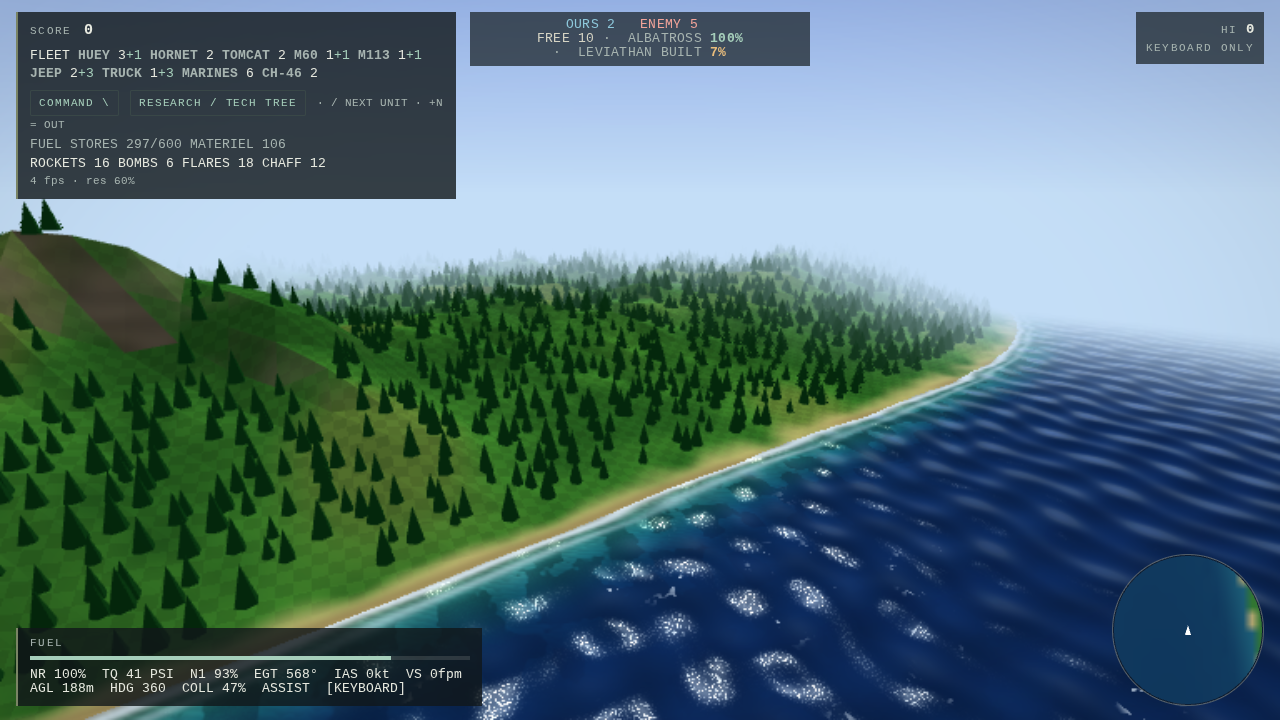
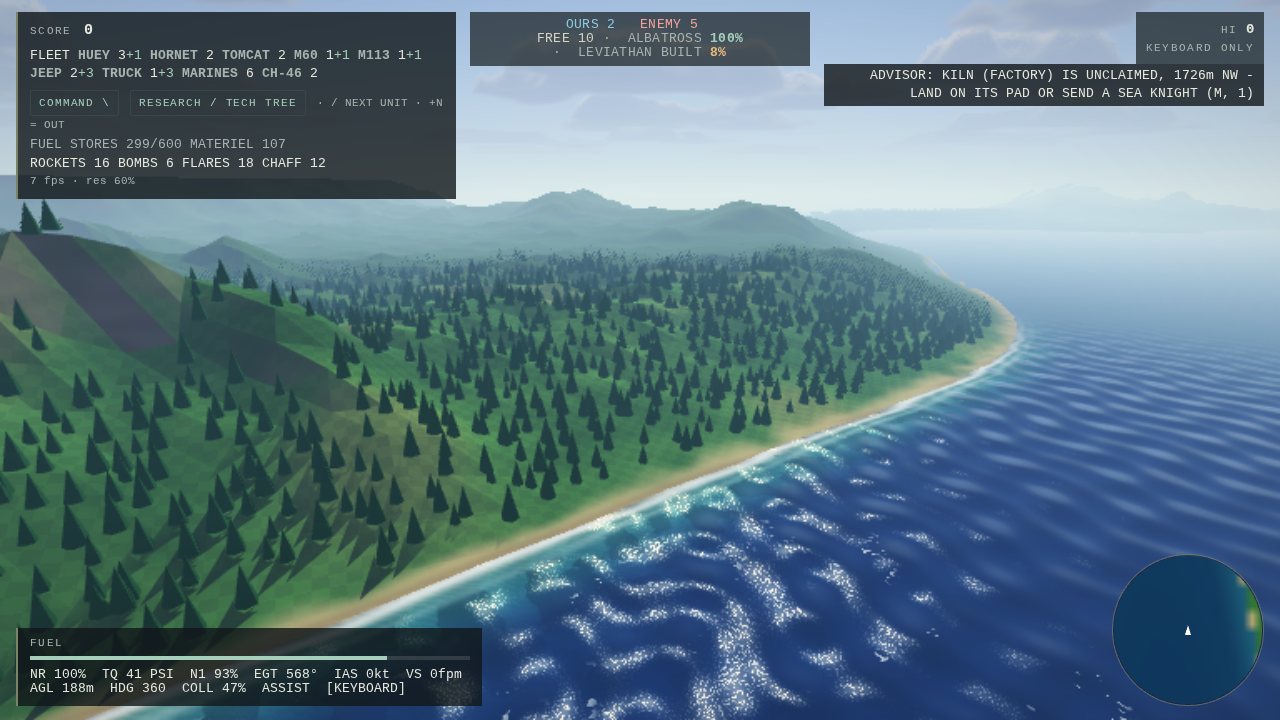
RenderKit nature: refill outside render (tufts lost mid-frame), grass contrast, nearest-first clutter, RK_NATURE needs RK_WORLD in the shader, far land matches the dry patches, post-merge tiers and evidence

diff --git a/game/js/renderkit/nature.js b/game/js/renderkit/nature.js
@@ -176,9 +176,9 @@ function tuftGeo(r) {
   for (let i = 0; i < n; i++) {
     const a = i / n * Math.PI * 2 + r() * 0.6, rr = 0.06 + r() * 0.12, x = Math.cos(a) * rr, z = Math.sin(a) * rr, h = 0.28 + r() * 0.4, w = 0.022 + r() * 0.016;
     const lean = 0.12 + r() * 0.22, tx = x + Math.cos(a) * lean, tz = z + Math.sin(a) * lean, px = -Math.sin(a) * w, pz = Math.cos(a) * w;
-    const up = [Math.cos(a) * 0.35, 1, Math.sin(a) * 0.35], root = mulc(g0, 0.74), tip = mulc(g0, 1.28);
+    const up = [Math.cos(a) * 0.35, 1, Math.sin(a) * 0.35], root = [0.42, 0.46, 0.4], tip = [1.5, 1.42, 0.95];   // dark, self-shaded roots; sun-bleached, yellower tips: grass reads by its contrast, not its hue
     const a0 = [x - px, 0, z - pz], a1 = [x + px, 0, z + pz], m0 = [x + (tx - x) * 0.45 - px * 0.7, h * 0.5, z + (tz - z) * 0.45 - pz * 0.7], m1 = [x + (tx - x) * 0.45 + px * 0.7, h * 0.5, z + (tz - z) * 0.45 + pz * 0.7], t = [tx, h, tz];
-    const mid = mulc(g0, 1.0);
+    const mid = [0.95, 0.98, 0.85];
     B.tri(a0, a1, m1, g0, [up, up, up], 1, 1, [root, root, mid]); B.tri(a0, m1, m0, g0, [up, up, up], 1, 1, [root, mid, mid]);
     B.tri(m0, m1, t, g0, [up, up, up], 1, 1, [mid, mid, tip]);
   }
@@ -291,7 +291,7 @@ function instanced(geo, mat, cap, depth) {
   const mesh = new THREE.Mesh(g, mat); mesh.frustumCulled = false; mesh.matrixAutoUpdate = false; mesh.castShadow = false; mesh.receiveShadow = true;
   if (depth) mesh.customDepthMaterial = depth;
   set.mesh = mesh; set.tris = geo.attributes.position.count / 3;
-  set.ensure = n => { if (n <= set.cap) return; const P = set.P.array, R = set.R.array, C = set.C.array, k = set.n; alloc(Math.ceil(n * 1.5)); set.P.array.set(P.subarray(0, k * 4)); set.R.array.set(R.subarray(0, k * 4)); set.C.array.set(C.subarray(0, k * 3)); g.dispose(); };
+  set.ensure = n => { if (n <= set.cap) return; const P = set.P.array, R = set.R.array, C = set.C.array, k = set.n; alloc(Math.ceil(n * 1.5)); set.P.array.set(P.subarray(0, k * 4)); set.R.array.set(R.subarray(0, k * 4)); set.C.array.set(C.subarray(0, k * 3)); };   // (the old buffers are left to the GC: disposing the geometry mid-frame lost the set)
   set.begin = () => { set.n = 0; };
   set.push = (src, i) => {   // src: { d: Float32Array (x y z s yaw tx tz seed), c: Float32Array (r g b) }
     if (set.n >= set.cap) set.ensure(set.n + 1);
@@ -333,7 +333,7 @@ export function createForest({ scene, fog = null, uTime = null, shared }) {
     const depth = depthMaterial(shared, lvl === 'lite' ? 'mid' : lvl);
     for (const k of K) {
       const g = geos[lvl + k] = treeGeo(k, lvl === 'far' ? 'lite' : lvl).geometry();
-      sets[lvl][k] = instanced(g, mats[lvl], lvl === 'detail' ? 1500 : 3000, depth); root.add(sets[lvl][k].mesh);
+      sets[lvl][k] = instanced(g, mats[lvl], lvl === 'detail' ? 2500 : 4000, depth); root.add(sets[lvl][k].mesh);
       sets[lvl][k].mesh.userData.rkShadow = lvl === 'far' ? 'receive' : 'both';   // RENDERKIT light: trees cast (customDepthMaterial carries the instance transform); the far set only receives
     }
   }
@@ -430,14 +430,14 @@ export function createClutter({ scene, fog = null, uTime = null, shared, sample 
         .replace('vColor.rgb*=aC*uNatGain;', `{ vec2 P=aP.xz; float m1=rkN2(P*.011), m2=rkN2(P*.047+3.1), m3=rkN2(P*.23+7.7), v=m1*.55+m2*.3+m3*.15;
             vec3 g=mix(mix(vec3(.14,.37,.12),vec3(.22,.5,.16),smoothstep(.25,.65,v)),vec3(.36,.5,.2),smoothstep(.5,.85,m1+max(aP.y,0.)*.0008));
             float dry=smoothstep(.55,.8,rkN2(P*.06+11.)+.15*rkN2(P*.3)); g=mix(g,vec3(.52,.5,.27),dry*.55);
-            g=pow(g,vec3(2.2)); vColor.rgb*=g*aC*uNatGain; }`);
+            g=pow(g,vec3(2.2)); vColor.rgb*=g*aC*uNatGain*(.78+.44*fract(aR.w*13.7)); }   // (+ a per-tuft brightness)`);
     };
     grassMat.customProgramCacheKey = () => 'rknature-grass' + (fog ? 'F' : '');
   }
   const mats = { tuft: grassMat, bush: natureMaterial({ kind: 'clutter', fog, uTime, shared, gain: 1.4 }), rock: natureMaterial({ kind: 'clutter', fog, uTime, shared, gain: 1.5 }) };
   mats.stone = mats.rock;
-  const sets = {}; for (const t of types) { sets[t] = instanced(geo[t], mats[t], t === 'tuft' ? 6000 : 1500, depthMaterial(shared, 'clutter')); root.add(sets[t].mesh); sets[t].mesh.userData.rkShadow = t === 'rock' || t === 'bush' ? 'both' : 'receive'; }   // (grass and stones do not cast: 15k tiny casters)
-  const cells = new Map(), key = (i, j) => i * 65536 + j;
+  const sets = {}; for (const t of types) { sets[t] = instanced(geo[t], mats[t], t === 'tuft' ? 20000 : 3000, depthMaterial(shared, 'clutter')); root.add(sets[t].mesh); sets[t].mesh.userData.rkShadow = t === 'rock' || t === 'bush' ? 'both' : 'receive'; }   // (grass and stones do not cast: 15k tiny casters)
+  const cells = new Map(), key = (i, j) => i * 65536 + j, ringCache = [];
   const stats = { cells: 0, tuft: 0, bush: 0, rock: 0, stone: 0, genMs: 0, ms: 0, tris: 0 };
   let lastI = 1e9, lastJ = 1e9, lastY = 1e9, dirty = true;
   const STONE = lin(0x9a968c), STRAW = [1.35, 1.12, 0.5];   // STRAW: a tint on the grass colour (dry summer tufts, marram on the dunes)
@@ -479,7 +479,9 @@ export function createClutter({ scene, fog = null, uTime = null, shared, sample 
     for (const t of types) sets[t].begin();
     const dens = { tuft: T.grass, bush: T.bush, rock: T.rocks, stone: T.rocks };
     let complete = true;
-    if (reach > 0) for (let dj = -n; dj <= n; dj++) for (let di = -n; di <= n; di++) {
+    // nearest cells first: when the generation budget runs out, what exists is what is under your feet
+    const order = ringCache[n] ||= Array.from({ length: (2 * n + 1) ** 2 }, (_, k) => [k % (2 * n + 1) - n, Math.floor(k / (2 * n + 1)) - n]).sort((a, b) => a[0] * a[0] + a[1] * a[1] - b[0] * b[0] - b[1] * b[1]);
+    if (reach > 0) for (const [di, dj] of order) {
       const i = ci + di, j = cj + dj, x = (i + 0.5) * CELL - p.x, z = (j + 0.5) * CELL - p.z;
       if (x * x + z * z > (reach + CELL) * (reach + CELL)) continue;
       let c = cells.get(key(i, j));

diff --git a/game/js/main.js b/game/js/main.js
@@ -551,7 +551,7 @@ const terrainFS = `
     ${RK_TERRAIN_GLSL}
     ${RK_SKY_GLSL}
     #endif
-    #ifdef RK_NATURE
+    #if defined(RK_NATURE) && defined(RK_WORLD)   // (RK_NATURE needs the RK world noise; a test may strip RK_WORLD alone)
     ${NATURE_TERRAIN_GLSL}
     #endif
     #ifdef RK_SKY
@@ -590,7 +590,7 @@ const terrainFS = `
       float rkSnow=wild*smoothstep(440.,520.,vW.y+120.*(rkM1-.5)+30.*(rkM2-.5))*(1.-smoothstep(.3,.75,rkSl+.2*(rkM2-.5)));
       c=mix(c,vec3(.93,.95,.98)*(.95+.05*rkM3),rkSnow);
       c=mix(mix(vec3(.62,.56,.37),vec3(.8,.74,.5),smoothstep(.15,1.2,vW.y))*(.94+.12*rkM3),c,smoothstep(0.,3.+2.5*(rkM2-.5),vW.y));   // wet sand at the waterline
-      #ifdef RK_NATURE
+      #if defined(RK_NATURE) && defined(RK_WORLD)   // (RK_NATURE needs the RK world noise; a test may strip RK_WORLD alone)
       // RENDERKIT nature: what the ground is made of here (weights for rnDetail); the zone's surface map overrides below
       float rnS=1.-smoothstep(0.,3.+2.5*(rkM2-.5),vW.y), rnR=rk*(1.-rkSnow)*(1.-rnS), rnSn=rkSnow*(1.-rnS), rnSoil=0., rnG=max(0.,1.-rnR-rnSn-rnS);
       #endif
@@ -613,14 +613,14 @@ const terrainFS = `
         sd*=.93+.14*rkM3; rkC*=.86+.28*rkM2;
         float rkCl=grass*smoothstep(.3,.5,rkSl+.1*(rkM2-.5));
         c=(rkGr*(grass-rkCl)+rkC*(rkCl+sw.g)+sd*sw.r+vec3(.31,.27,.18)*(.85+.3*rkM2)*sw.b+vec3(.47,.38,.26)*(.88+.24*rkM2)*sw.a)/max(1.,grass+dot(sw,vec4(1.)));
-        #ifdef RK_NATURE
+        #if defined(RK_NATURE) && defined(RK_WORLD)   // (RK_NATURE needs the RK world noise; a test may strip RK_WORLD alone)
         { float rnT=max(1.,grass+dot(sw,vec4(1.))); rnG=(grass-rkCl)/rnT; rnR=(rkCl+sw.g)/rnT; rnS=sw.r/rnT; rnSoil=(sw.b+sw.a)/rnT; rnSn=0.; }   // RENDERKIT nature
         #endif
         #else
         c=(mix(vec3(.2,.43,.14),vec3(.29,.5,.17),chk*.45)*grass+sd*sw.r+rkC*sw.g+vec3(.31,.27,.18)*sw.b+vec3(.47,.38,.26)*sw.a)/max(1.,grass+dot(sw,vec4(1.)));
         #endif
       }
-      #ifdef RK_NATURE
+      #if defined(RK_NATURE) && defined(RK_WORLD)   // (RK_NATURE needs the RK world noise; a test may strip RK_WORLD alone)
       if(vRaw>0.) rnDetail(c,n,vW,rnG,rnR,rnS,rnSoil,rnSn,rkSl,rkD,uTime);   // RENDERKIT nature: patches, grain, pebbles, strata, shore (n tilted)
       #endif
       #ifdef RK_WORLD
@@ -655,7 +655,7 @@ const terrainFS = `
         #endif
         wc+=vec3(1.,.95,.8)*sp*1.3*(sp>.002?glitAt(p,t,sk):1.);
         ${SEA_FS_FOAM}
-        #ifdef RK_NATURE
+        #if defined(RK_NATURE) && defined(RK_WORLD)   // (RK_NATURE needs the RK world noise; a test may strip RK_WORLD alone)
         foam=max(foam,rnLace(p,d,t,length(cameraPosition-vW)));   // RENDERKIT nature: the swash lace at the waterline
         #endif
         c=mix(wc*(.92+.05*(sin(a1)+sin(a2))),vec3(.88,.94,1.),foam*.8);
@@ -818,14 +818,15 @@ const NAT = RKN ? (() => {
       shared.uniforms.uNatSun.value.copy(sun.position).normalize(); shared.uniforms.uNatSunCol.value.copy(sun.color);
       const xr = !!(XR && XR.active);
       if (xr && xrTier === null) { xrTier = shared.tierName; N.setTier('low'); } else if (!xr && xrTier !== null) { N.setTier(xrTier); xrTier = null; }
+      if (natEye.seen) { forest.update(natEye); clutter.update(natEye); }
     },
     // the forest and clutter sets follow the camera that RENDERS (hooked on terrain.onBeforeRender below): scripted test
     // cameras and XR eyes, not just zCam as the game loop left it
-    place(cam) { natEye.position.setFromMatrixPosition(cam.matrixWorld); natEye.far = cam.far; forest.update(natEye); clutter.update(natEye);
+    place(cam) { natEye.position.setFromMatrixPosition(cam.matrixWorld); natEye.far = cam.far; natEye.seen = true;   // (applied in update(): never change buffers mid-render)
     },
   };
   if (params.has('debug')) window.__nature = N;
-  const natEye = { position: new THREE.Vector3(), far: 0 }, terrainOBR = terrain.onBeforeRender;
+  const natEye = { position: new THREE.Vector3(), far: 0, seen: false }, terrainOBR = terrain.onBeforeRender;
   terrain.onBeforeRender = (r, s, cam) => { terrainOBR(r, s, cam); if (cam.isPerspectiveCamera) N.place(cam); };   // (terrain always renders, once per eye; not for a shadow map)
   return N;
 })() : null;

diff --git a/game/js/renderkit/atmosphere.js b/game/js/renderkit/atmosphere.js
@@ -19,6 +19,8 @@
 // Tiers: 'high' (desktop), 'low' (XR, or ?rksky=low): fewer cloud / far steps, no cloud detail octave.
 import * as THREE from 'three';
 import { uniform } from './core.js';
+import { RK } from './adopt.js';   // RENDERKIT nature: the far land matches the nature terrain's average colour
+const NAT_DEF = RK.on('nature') && RK.on('world') ? { RK_NATURE: 1 } : {};
 
 // ---- the shared haze state (display space). x: extinction per metre at sea level, y: 1 / scale height, z: weight
 // (0 = classic fog: under water, in the caves), w: Mie glow strength.
@@ -66,6 +68,9 @@ vec3 rkFarSeaCol(vec3 v, vec3 hor){   // open sea far off: deep water + the sky 
 vec3 rkFarLand(vec3 p, vec3 n){   // land far off (32 m detail): grass / forest, rock by height and slope, snow, beaches; lit like the RK terrain
   float sl=1.-n.y;
   vec3 c=mix(vec3(.15,.33,.12),vec3(.25,.41,.16),smoothstep(60.,170.,p.y));
+  #ifdef RK_NATURE
+  c=mix(c,vec3(.56,.52,.3),.13);   // RENDERKIT nature: the near terrain's dry-grass / soil patches average ~13 % straw (rnDetail)
+  #endif
   c=mix(c,vec3(.44,.39,.31),max(smoothstep(170.,300.,p.y),smoothstep(.3,.55,sl)));
   c=mix(c,vec3(.92,.94,.97),smoothstep(440.,520.,p.y)*(1.-smoothstep(.35,.7,sl)));
   c=mix(vec3(.70,.64,.44),c,smoothstep(0.,4.,p.y));
@@ -292,7 +297,7 @@ export function createAtmosphere({ scene, sky, sun, uniforms, renderer }) {
   Object.assign(uniforms, U);   // the terrain shares them (same objects)
   const shared = { ...U, uFog: uniforms.uFog };
   const domeMat = tier => displayOut(new THREE.ShaderMaterial({ name: 'RenderKit/atmosphere-' + tier, side: THREE.BackSide, depthWrite: false, fog: false, uniforms: shared,
-    defines: tier === 'high' ? { RK_CLOUD_STEPS: 28, RK_FAR_STEPS: 56, RK_CLOUD_DETAIL: 1 } : { RK_CLOUD_STEPS: 12, RK_FAR_STEPS: 28 },
+    defines: { ...NAT_DEF, ...(tier === 'high' ? { RK_CLOUD_STEPS: 28, RK_FAR_STEPS: 56, RK_CLOUD_DETAIL: 1 } : { RK_CLOUD_STEPS: 12, RK_FAR_STEPS: 28 }) },
     vertexShader: DOME_VS, fragmentShader: domeFS(false) }));
   const mats = { high: domeMat('high'), low: domeMat('low') };
   const old = sky.material; sky.material = mats[forced || 'high']; old.dispose?.();

diff --git a/docs/ngc1980/findings/depth-nature.md b/docs/ngc1980/findings/depth-nature.md
@@ -63,3 +63,69 @@ a swash lace foam line runs up and down the sand (`rnLace`).
 edge along the grid triangles); now ~0.2-0.6 m with a noisy edge.
 **Action**: done. The light agent's shadow hunk goes into the lighting line after `rnDetail`; the nature hunks are all
 marked `// RENDERKIT nature` and leave the lighting skeleton alone.
+
+## 2026-10-27 - Tiers and what they cost
+**Finding**: `?rknature=low|med|high` (saved `tz_rknature`, default high; XR switches to low on session start and back
+after). Per tier: tree detail radius 90 / 170 / 260 m (+-30/45/60 cross-fade), clutter ring 38 / 70 / 105 m, grass
+density 0.35 / 0.7 / 1, terrain near detail off / 110 m / 170 m; low draws the mid trees with octahedron clumps (8 instead
+of 20 triangles a clump). The mid set ends at the far clip (on foot the haze ends at ~265 m), the zone's static far set is
+drawn only when the view reaches past 410 m (jets, high helicopters).
+**Evidence**: `tools/scenes/depthnature.mjs`, SwiftShader at 60 % of 1280x720 after the shader-library merge
+(light/sky/post/materials on in every column). drawMs50 = median of 6 synchronous scene renders with a readback (a CPU
+rasteriser: proportional to fragment + vertex work, not a GPU frame time); kt = rendered triangles.
+
+| view | nature off | low | high |
+|---|---|---|---|
+| hq (user's view) | 237 ms / 414 kt | 353 ms / 643 kt | 864 ms / 1379 kt |
+| forest edge, on foot | 221 / 422 | 330 / 658 | 772 / 1322 |
+| grassland, on foot | 368 / 508 | 512 / 752 | 1046 / 1473 |
+| beach | 179 / 356 | 318 / 544 | 489 / 972 |
+| heli 50 m | 289 / 474 | 464 / 649 | 609 / 1072 |
+| heli 200 m | 277 / 414 | 412 / 552 | 461 / 662 |
+| wild forest, on foot | 158 / 249 | 322 / 556 | 728 / 1283 |
+
+High at the HQ: 1084 detail + 787 mid trees (358 kt), 15.6 k grass tufts (645 kt: the tufts are the bulk of high's cost),
+forest refill 0.3 ms when the camera has moved 6 m, clutter generation capped at 6 ms a frame (nearest cells first).
+Med (earlier run, pre-merge): ~1.0 M triangles at the HQ, ~5 k tufts. CPU per frame with nothing to rebuild: ~0.
+**Action**: high stays the desktop default (the user's GPU has headroom: 133 fps at 1080p before). OPEN: a real-GPU A/B
+(`?rknature=low|med|high` with the fps counter) on the user's desktop and on the Quest via Steam Link; if high costs more
+than ~1 ms there, cut tuft blades 13 -> 8 (the geometry is one function) before cutting density.
+
+## 2026-10-27 - Bugs found in testing (fixed)
+- **Tufts invisible after following the render camera**: the clutter / forest sets were refilled inside
+  `terrain.onBeforeRender` (to follow the camera that renders: scripted test cameras, XR eyes) and grew their buffers
+  mid-render (`geometry.dispose()` mid-frame). Now `onBeforeRender` only records the eye; the refill runs in the frame
+  hook; buffers start large (20 k tufts) and are never disposed mid-frame.
+- **Tufts the same colour as the ground** (after the light merge brightened the terrain): roots 0.42, tips 1.5 and
+  yellower, a per-tuft brightness: grass reads by its contrast.
+- **rkworld.mjs terrain A/B failed to compile** (`rkN2` missing): it strips `RK_WORLD` but keeps the other defines. The
+  nature hunks are now `#if defined(RK_NATURE) && defined(RK_WORLD)`.
+- **Clutter filled in raster order**: under the 6 ms generation budget the far corner of the ring could fill before the
+  ground at your feet (the HQ shot had no grass beside the road). Cells now generate nearest first.
+- **Clutter test views were around the wrong camera** (the game's chase camera 40 m up, not the scripted eye): low tier
+  had no clutter in the shots. Fixed by the render-camera tracking above; shadow cameras (orthographic) are ignored.
+
+## 2026-10-27 - Merge with ngc/shader-library (light, sky, materials, post, figures)
+**Finding**: conflicts in main.js (imports, terrain uniforms, GLSL includes, defines), adopt.js (RK_AREAS) and the world
+worker's transfer list; all kept both sides (`RK_DEF` gains `RK_NATURE` only with `RK_WORLD`). The light agent's
+`rkShadow` rules now cover the nature meshes: trees, rocks and bushes cast (their `customDepthMaterial` carries the
+instance transform and wind), grass and stones only receive, the zone's far set only receives. The sky agent's
+`rkFarLand` (land past the draw distance) gets a 13 % straw mix under `RK_NATURE`, the average of the near terrain's
+dry-grass and soil patches, so the 0.6-1.0 x draw hand-over shows no colour step (wild150 shot).
+**Action**: done. Not done: the materials agent's `detail.js noiseTexture()` could replace the terrain detail's ALU value
+noise (~10-14 `rkN2` per near pixel) with 3 texture fetches; worth doing if the terrain shows up in a GPU profile.
+
+## 2026-10-27 - Checks
+smoke.json PASS; xr.mjs 19/19 (low tier in VR, stereo shots clean); worldvisibility 17/17 (forest counts unchanged,
+`forestTrees` kept); underwater 6/6 after the merge; depthnature 9/9 at high, low and off; renderkit fixture 20/20;
+`check.mjs syntax` 529/529. visibility.mjs and the pre-merge underwater pixel checks also failed on the base commit
+4a47cbb (post pipeline readPixels; fixed upstream by 2a10eda). rkworld.mjs's "kit sky ... material.name === 'RenderKit/sky'"
+expect fails since the depth-sky merge replaced the dome material (not a nature change).
+Screens: `docs/ngc1980/evidence/depth-nature/before-*.png` (RK on, no nature), `high-*.png`, `low-02-forest.png`,
+`worldvisibility-forest.png`.
+
+## OPEN
+- Village garden / hedgerow trees (chunkgen `tree()`, merged world geometry) are still the old trunk + one blob.
+- The beach's dark trapezoid in `before/high-04-beach` is the LCM landing hard, not a shading bug.
+- Felled zone trees keep their wind sway (a lying tree wiggles a few cm).
+- Real-GPU frame times per tier (above).
